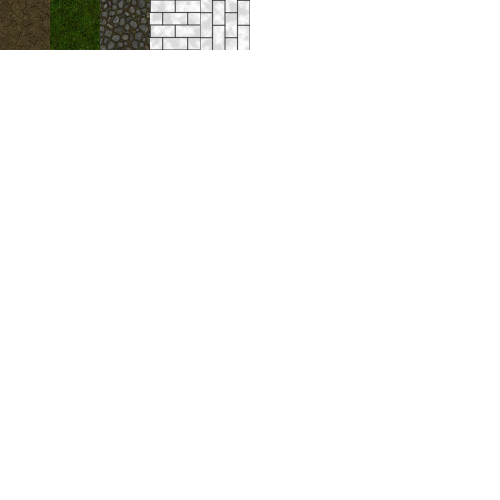
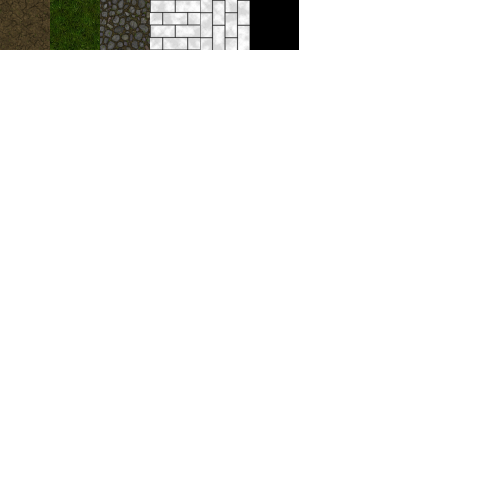
Enemies position is fixed on the map

Changed region(s): [[0.48, 0.0, 0.6, 0.12]]

diff --git a/AthameRPG/AthameRPG/Characters/Gargamel.cs b/AthameRPG/AthameRPG/Characters/Gargamel.cs
@@ -11,8 +11,8 @@ namespace AthameRPG.Characters
 {
     public class Gargamel : Enemy
     {
-        private const int cropWidth = 126;
-        private const int cropHeight = 168;
+        private const int cropWidth = 90;
+        private const int cropHeight = 121;
 
         private const float moveSpeedPlayer = 0.8f;
 
@@ -21,6 +21,7 @@ namespace AthameRPG.Characters
 
         private Rectangle cropCurrentFrameGargamel;
         private Vector2 coordGargamel;
+        private Vector2 drawCoordGargamel;
 
 
         public Gargamel(float startPositionX, float startPositionY) : base(startPositionX, startPositionY)
@@ -54,12 +55,15 @@ namespace AthameRPG.Characters
 
         public override void Update(GameTime gameTime)
         {
-            
+            drawCoordGargamel.X = coordGargamel.X + CharacterManager.barbarian.CoordP().X;
+            drawCoordGargamel.Y = coordGargamel.Y + CharacterManager.barbarian.CoordP().Y;
         }
 
         public override void Draw(SpriteBatch spriteBatch)
         {
-            spriteBatch.Draw(CharacterManager.Instance.GargamelImage, coordGargamel, CropCurrentFrameGargamel, Color.White);
+            
+
+            spriteBatch.Draw(CharacterManager.Instance.GargamelImage, drawCoordGargamel, CropCurrentFrameGargamel, Color.White);
         }
     }
 }

diff --git a/AthameRPG/AthameRPG/GameEngine/Maps/Map.cs b/AthameRPG/AthameRPG/GameEngine/Maps/Map.cs
@@ -103,6 +103,7 @@ namespace AthameRPG.GameEngine.Maps
                 for (int j = 0; j < FullMap[i].Count(); j++)
                 {
                     int currentNum = FullMap[i][j];
+                    Color currentColor = Color.White;
                     
                     switch (currentNum)
                     {
@@ -114,13 +115,17 @@ namespace AthameRPG.GameEngine.Maps
                         case 2:
                             cropWall = new Rectangle(100, 0, 50, 50);
                             break;
+                        default:
+                            cropWall = new Rectangle(250, 0, 50, 50);
+                            currentColor = Color.Black;
+                            break;
                         
                     }
                     
                     currentCoord.X = (float)(j * 50) + CharacterManager.barbarian.CoordP().X;
                     currentCoord.Y = (float)(i * 50) + CharacterManager.barbarian.CoordP().Y;
                     
-                    spriteBatch.Draw(MapManager.Instance.Terrain, currentCoord, cropWall, Color.White);
+                    spriteBatch.Draw(MapManager.Instance.Terrain, currentCoord, cropWall, currentColor);
                 }
             }
         }
